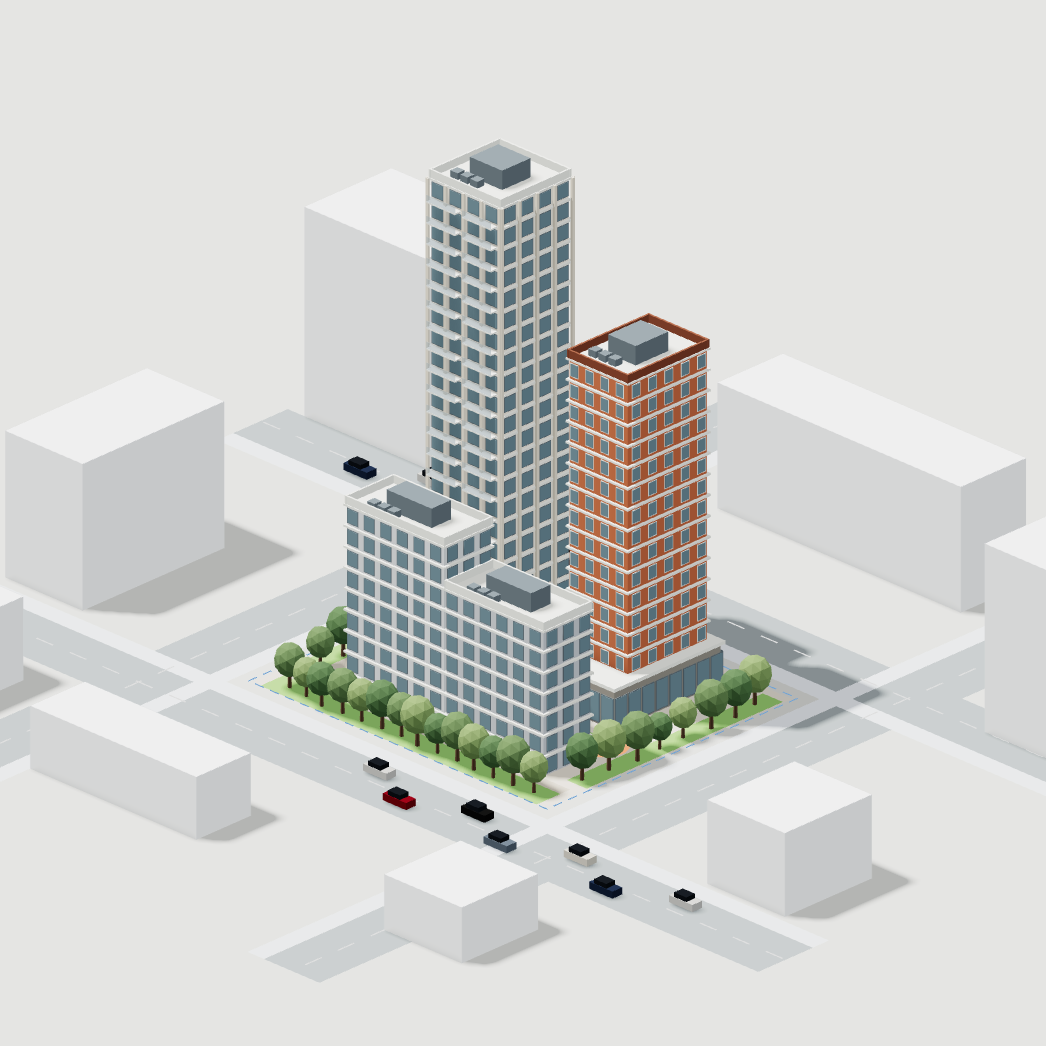
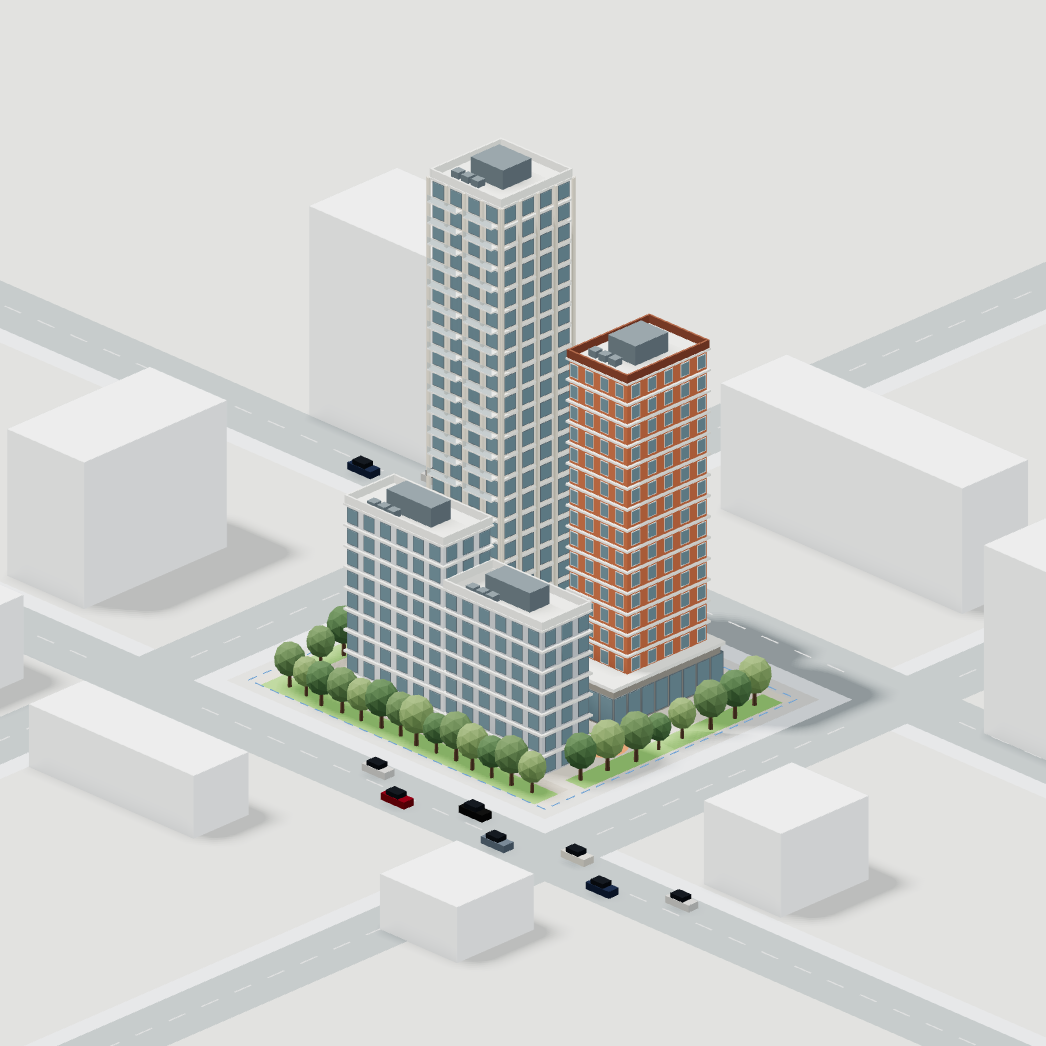
Fix continuous road intersections and soften studio illumination

diff --git a/assets/gran-visual.js b/assets/gran-visual.js
@@ -5,7 +5,7 @@
   const T=global.THREE;
   const PRESETS={
     npm:{background:0xeee7dc,sky:0xfff4e6,ground:0xa99f8f,ambient:.9,sun:0xffe8c7,key:1.05,fill:0xdde8f4,fillPower:.28,exposure:.98,shadows:true},
-    vpm:{background:0xb9bdbd,sky:0xf2f1ed,ground:0x737b78,ambient:.68,sun:0xfff5e4,key:1.45,fill:0xdce3e7,fillPower:.22,exposure:.94,shadows:true},
+    vpm:{background:0xb9bdbd,sky:0xf2f1ed,ground:0x737b78,ambient:.78,sun:0xfff5e4,key:1.12,fill:0xdce3e7,fillPower:.25,exposure:.94,shadows:true},
     cim:{background:0xe8edf2,sky:0xffffff,ground:0xb7c3cf,ambient:1.02,sun:0xf3f6fc,key:.72,fill:0xddeaff,fillPower:.25,exposure:1.06,shadows:false}
   };
   let studio;
@@ -19,7 +19,7 @@
     renderer.outputEncoding=T.sRGBEncoding;renderer.toneMapping=T.ACESFilmicToneMapping;
     renderer.shadowMap.type=T.VSMShadowMap;renderer.shadowMap.autoUpdate=false;
     const hemisphere=new T.HemisphereLight(),sun=new T.DirectionalLight(),fill=new T.DirectionalLight();
-    sun.castShadow=true;sun.shadow.mapSize.set(compact?1024:2048,compact?1024:2048);sun.shadow.bias=-.00012;sun.shadow.normalBias=.065;sun.shadow.radius=8;sun.shadow.blurSamples=8;
+    sun.castShadow=true;sun.shadow.mapSize.set(compact?1024:2048,compact?1024:2048);sun.shadow.bias=-.00012;sun.shadow.normalBias=.065;sun.shadow.radius=16;sun.shadow.blurSamples=8;
     scene.add(hemisphere,sun,sun.target,fill,fill.target);
     const rig={scene,renderer,hemisphere,sun,fill,compact,mode:'vpm'};apply(rig,'vpm');return rig;
   }
@@ -36,11 +36,13 @@
     Object.assign(rig.sun.shadow.camera,{left:-radius*1.5,right:radius*1.5,top:radius*1.5,bottom:-radius*1.5,near:.5,far:radius*7});rig.sun.shadow.camera.updateProjectionMatrix();rig.renderer.shadowMap.needsUpdate=true;
   }
   // Coplanar road intersections must not overlap: preserves the original footprint.
-  function rectangles(rects,y,material){
-    const xs=[...new Set(rects.flatMap(([x,z,w,d])=>[x-w/2,x+w/2]))].sort((a,b)=>a-b),zs=[...new Set(rects.flatMap(([x,z,w,d])=>[z-d/2,z+d/2]))].sort((a,b)=>a-b),p=[];
+  function rectangles(rects,y,material,cutouts=[]){
+    const all=rects.concat(cutouts);
+    const xs=[...new Set(all.flatMap(([x,z,w,d])=>[x-w/2,x+w/2]))].sort((a,b)=>a-b),zs=[...new Set(all.flatMap(([x,z,w,d])=>[z-d/2,z+d/2]))].sort((a,b)=>a-b),p=[];
     for(let i=0;i<xs.length-1;i++)for(let j=0;j<zs.length-1;j++){
       const x0=xs[i],x1=xs[i+1],z0=zs[j],z1=zs[j+1],cx=(x0+x1)/2,cz=(z0+z1)/2;
       if(!rects.some(([x,z,w,d])=>Math.abs(cx-x)<=w/2&&Math.abs(cz-z)<=d/2))continue;
+      if(cutouts.some(([x,z,w,d])=>Math.abs(cx-x)<w/2&&Math.abs(cz-z)<d/2))continue;
       p.push(x0,y,z0,x0,y,z1,x1,y,z1,x0,y,z0,x1,y,z1,x1,y,z0);
     }
     const g=new T.BufferGeometry();g.setAttribute('position',new T.Float32BufferAttribute(p,3));g.computeVertexNormals();const m=new T.Mesh(g,material);m.receiveShadow=true;return m;

diff --git a/index.html b/index.html
@@ -1018,9 +1018,13 @@ let setMode = () => {};
   neighbors.forEach(([x,z,w,d,h])=>{const m=box(w,h,d,nMat,x,h/2,z);m.castShadow=false;m.receiveShadow=true;ctx.add(m);
     const e=new THREE.LineSegments(new THREE.EdgesGeometry(m.geometry),new THREE.LineBasicMaterial({color:0xB7BEC7,transparent:true,opacity:.18}));e.position.copy(m.position);ctx.add(e)});
   const road=M(0x929B9F,{roughness:.95}), walk=M(0xD5DCE5,{roughness:1}), mark=new THREE.MeshBasicMaterial({color:0xF2F2F2});
-  ctx.add(GranVisual.rectangles([[0,-31,160,10],[0,35,160,10],[-37,2,10,160],[37,2,10,160]],.03,road));
-  ctx.add(GranVisual.rectangles([[0,-24.5,160,3],[0,28.5,160,3],[-30.5,2,3,160],[30.5,2,3,160]],.04,walk));
-  const marks=[]; for(let i=-78;i<80;i+=6){marks.push([i,0.05,-31,3,0.02,0.25],[i,0.05,35,3,0.02,0.25],[-37,0.05,i,0.25,0.02,3],[37,0.05,i,0.25,0.02,3])}
+  const roadRects=[[0,-31,320,10],[0,35,320,10],[-37,2,10,320],[37,2,10,320]];
+  ctx.add(GranVisual.rectangles(roadRects,.08,road));
+  ctx.add(GranVisual.rectangles([[0,-24.5,320,3],[0,28.5,320,3],[-30.5,2,3,320],[30.5,2,3,320]],.09,walk,roadRects));
+  const marks=[]; for(let i=-156;i<158;i+=6){
+    if(Math.abs(i-37)>8&&Math.abs(i+37)>8)marks.push([i,.12,-31,3,.02,.25],[i,.12,35,3,.02,.25]);
+    if(Math.abs(i+31)>8&&Math.abs(i-35)>8)marks.push([-37,.12,i,.25,.02,3],[37,.12,i,.25,.02,3]);
+  }
   inst(marks,mark,ctx);
   const carCols=[0x2B3A55,0xD8D8D8,0x8C1D1D,0x1E1E1E,0x6C7A89,0xE5E1D8];
   for(let i=0;i<14;i++){const side=i%2?-1:1;const x=-60+i*9+rnd()*3;const c=new THREE.Group();

diff --git a/review/studio-orbit/README.md b/review/studio-orbit/README.md
@@ -9,3 +9,7 @@
 npm test и git diff --check проходят. Добавлена проверка одинакового угла поворота за секунду при шагах 60 и 120 Гц; это не измерение FPS. Фактические 120 FPS не подтверждены: доступный WebGL работает программно, аппаратного стенда 120 Гц нет. На дисплее 60 Гц браузер обычно выдаёт не более 60 видимых кадров/с. Не обещать минимум 120 FPS на любых устройствах.
 
 Публичный сайт не изменён. Новая версия подготовлена для отдельного согласования.
+
+## Уточнение дорог и света
+
+Дороги продлены за край сцены. Из тротуаров вырезаны пересечения с проезжей частью; штрихи разметки исключены из перекрёстков. Поверхности разделены по высоте. Свет смягчён: уменьшена сила прямого источника, увеличены заполняющий свет и размытие теней. Кадр выше обновлён из реального WebGL. Тест проверяет площадь выреза и отсутствие тротуара на дороге. Пользователь разрешил внедрение этих изменений на демо-сайт.
